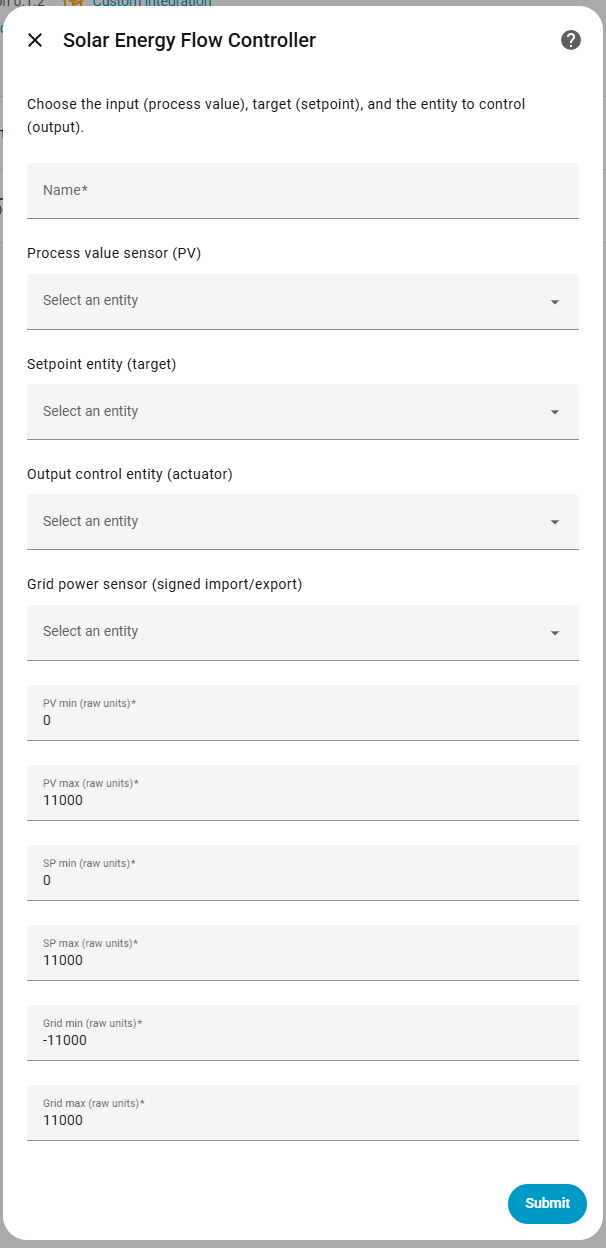
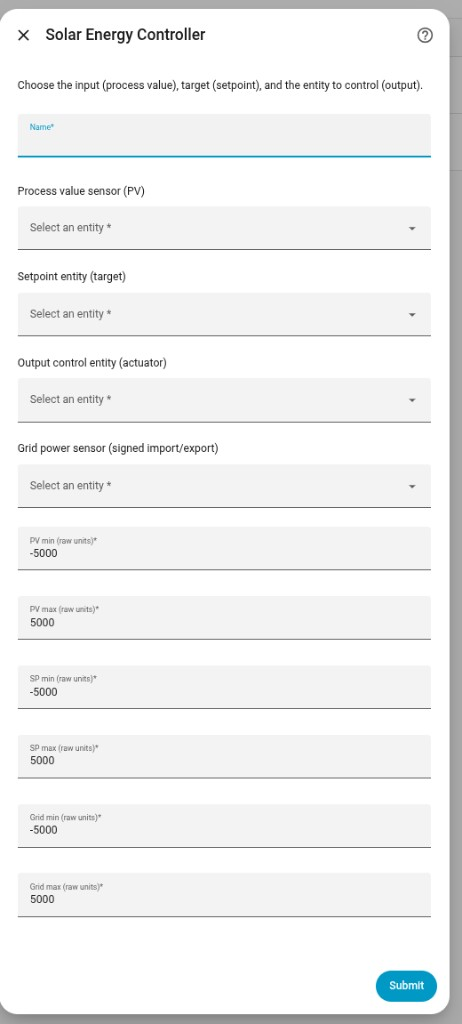
Refresh Configuration1–6 README screenshots
Replace setup wizard, options, device entity cards, and diagnostics
images with current Home Assistant UI captures.

Changed region(s): [[0.0, 0.0, 1.0, 1.0], [0.9091, 0.5, 0.9394, 0.5312], [0.9091, 0.4062, 0.9394, 0.4375]]

diff --git a/README.md b/README.md
@@ -181,7 +181,7 @@ To remove the Solar Energy Controller integration:
 During setup you select the entities used by the controller and define their operating ranges for normalization.
 
 <p align="center">
-  <img src="https://raw.githubusercontent.com/isystemsautomation/hm-solar-energy-controller/main/images/Configuration1.png" width="300">
+  <img src="https://raw.githubusercontent.com/isystemsautomation/hm-solar-energy-controller/main/images/Configuration1.png" alt="Solar Energy Controller initial setup wizard" width="320">
 </p>
 
 ### Installation Parameters
@@ -243,7 +243,7 @@ The following parameters are required during the initial setup:
 After installation, you can configure signal interpretation and controller behavior.
 
 <p align="center">
-  <img src="https://raw.githubusercontent.com/isystemsautomation/hm-solar-energy-controller/main/images/Configuration2.png" width="300">
+  <img src="https://raw.githubusercontent.com/isystemsautomation/hm-solar-energy-controller/main/images/Configuration2.png" alt="PID settings options dialog" width="320">
 </p>
 
 ### Options
@@ -274,7 +274,7 @@ After installation, you can configure signal interpretation and controller behav
 Runtime controls allow switching modes and manually overriding behavior.
 
 <p align="center">
-  <img src="https://raw.githubusercontent.com/isystemsautomation/hm-solar-energy-controller/main/images/Configuration3.png" width="200">
+  <img src="https://raw.githubusercontent.com/isystemsautomation/hm-solar-energy-controller/main/images/Configuration3.png" alt="Runtime Controls entity card" width="360">
 </p>
 
 ### Runtime Modes
@@ -307,7 +307,7 @@ Mode transitions use **bumpless transfer** to avoid output jumps.
 The integration exposes detailed runtime sensors for transparency and tuning.
 
 <p align="center">
-  <img src="https://raw.githubusercontent.com/isystemsautomation/hm-solar-energy-controller/main/images/Configuration4.png" width="200">
+  <img src="https://raw.githubusercontent.com/isystemsautomation/hm-solar-energy-controller/main/images/Configuration4.png" alt="Live sensor entities" width="360">
 </p>
 
 ### Sensors
@@ -331,7 +331,7 @@ The integration exposes detailed runtime sensors for transparency and tuning.
 All tuning and limiter parameters are available as number and switch entities.
 
 <p align="center">
-  <img src="https://raw.githubusercontent.com/isystemsautomation/hm-solar-energy-controller/main/images/Configuration5.png" width="200">
+  <img src="https://raw.githubusercontent.com/isystemsautomation/hm-solar-energy-controller/main/images/Configuration5.png" alt="Configuration number and switch entities" width="360">
 </p>
 
 ### PID & Limits
@@ -374,7 +374,7 @@ All tuning and limiter parameters are available as number and switch entities.
 Additional diagnostic entities help understand controller behavior.
 
 <p align="center">
-  <img src="https://raw.githubusercontent.com/isystemsautomation/hm-solar-energy-controller/main/images/Configuration6.png" width="200">
+  <img src="https://raw.githubusercontent.com/isystemsautomation/hm-solar-energy-controller/main/images/Configuration6.png" alt="Diagnostic entities" width="360">
 </p>
 
 ### Diagnostic Entities
